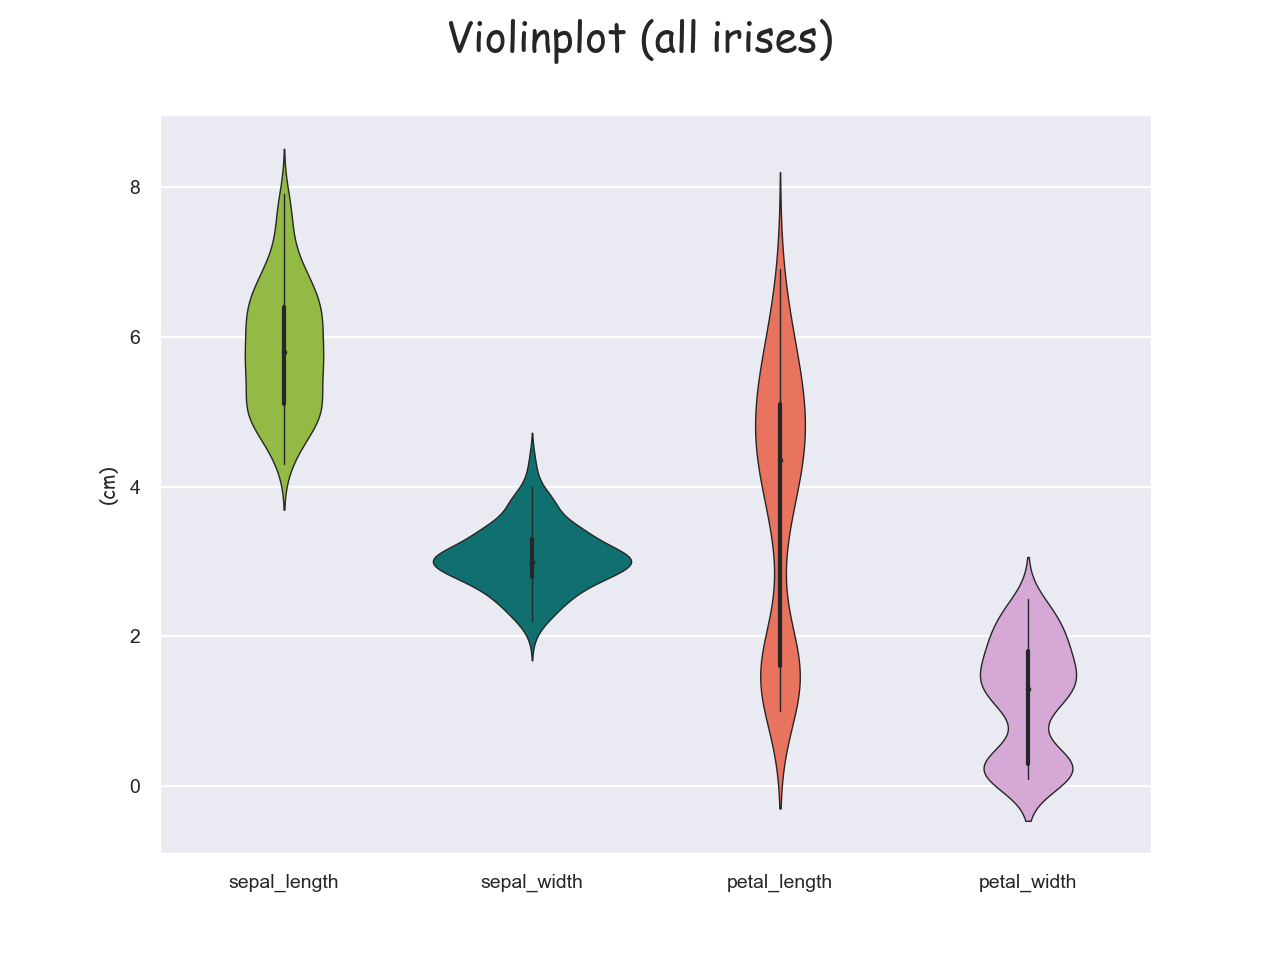
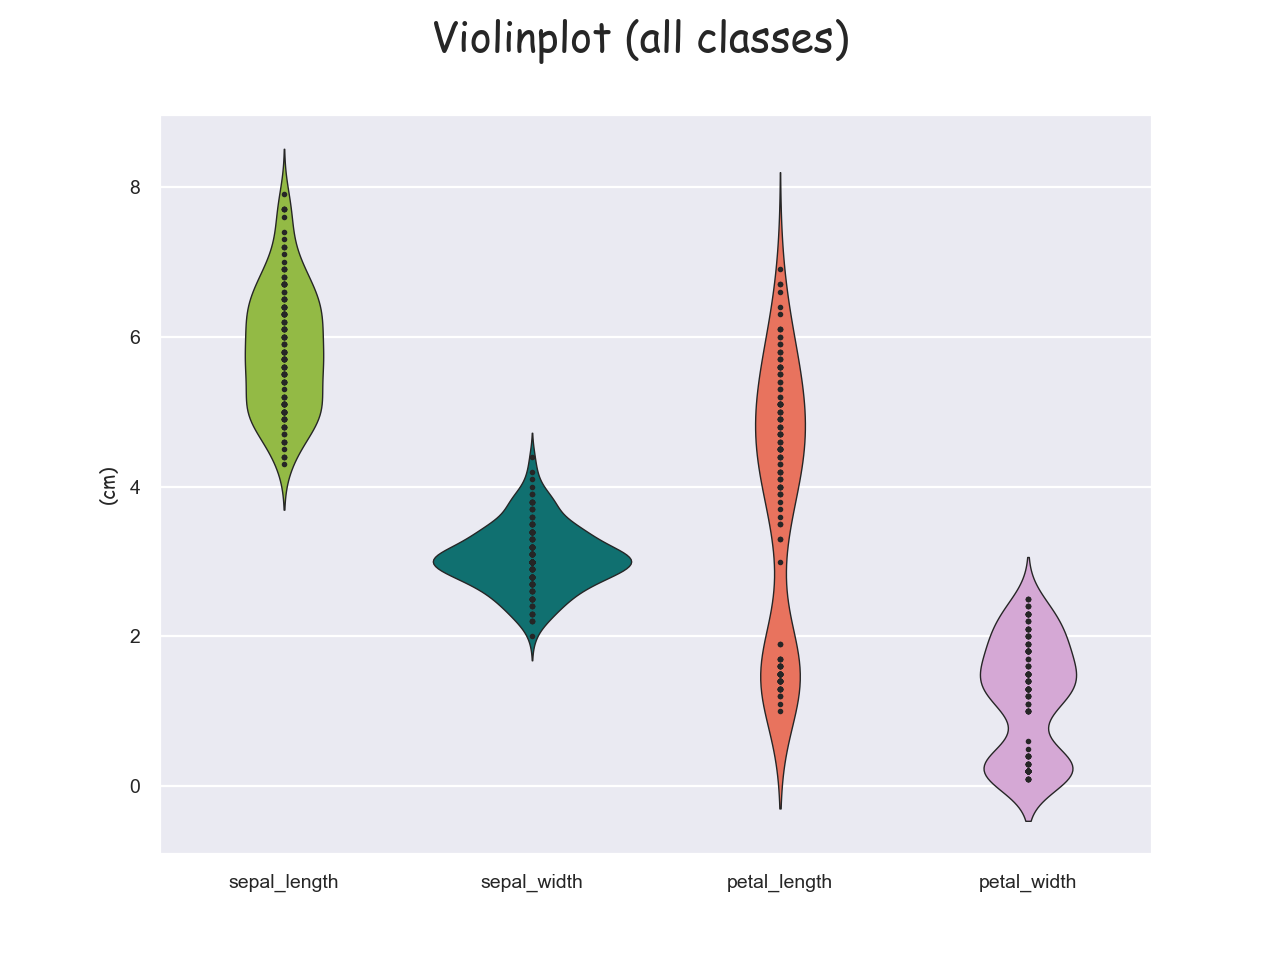
reorganisation

diff --git a/analysis.py b/analysis.py
@@ -76,7 +76,7 @@ b = sns.boxplot(data=iris, linewidth=0.5, fliersize=3, palette=color_theme2) # c
                                                                             # marker size (fliersize), and colour palette defined
 plt.tick_params(axis='both', which='major', labelsize=7) # formats ticks on each axis
 b.set_ylabel("(cm)", fontsize=7, fontname='fantasy') # sets y label with font and fontsize
-plt.suptitle('Boxplot (all irises)', fontsize=15, fontname='fantasy') # prints title and sets font and fontsize
+plt.suptitle('Boxplot (all classes)', fontsize=15, fontname='fantasy') # prints title and sets font and fontsize
 plt.show()
 
 # boxplot grid separating out each species
@@ -103,7 +103,7 @@ axes[0,1].tick_params(axis='both', which='major', labelsize=6)
 axes[1,0].tick_params(axis='both', which='major', labelsize=6)
 axes[1,1].tick_params(axis='both', which='major', labelsize=6)
 # prints title and formatting
-plt.suptitle('Boxplots (species separated)', fontsize=15, fontname='fantasy')
+plt.suptitle('Boxplots (classes separated)', fontsize=15, fontname='fantasy')
 plt.show()
 
 # creating violin plots
@@ -111,7 +111,7 @@ plt.show()
 b = sns.violinplot(data=iris, linewidth=0.5, fliersize=6, inner='point', palette=color_theme2) # creates plot with formatting
 plt.tick_params(axis='both', which='major', labelsize=7) # sets ticks
 b.set_ylabel("(cm)", fontsize=7, fontname='fantasy') # sets y label with formatting
-plt.suptitle('Violinplot (all irises)', fontsize=15, fontname='fantasy') # sets title with formatting
+plt.suptitle('Violinplot (all classes)', fontsize=15, fontname='fantasy') # sets title with formatting
 plt.show()
 
 # Stripplots
@@ -142,7 +142,7 @@ axes[0,1].tick_params(axis='both', which='major', labelsize=6)
 axes[1,0].tick_params(axis='both', which='major', labelsize=6)
 axes[1,1].tick_params(axis='both', which='major', labelsize=6)
 # sets title with formatting
-plt.suptitle('Strip plots (species separated and data points scattered)', fontsize=13, fontname='fantasy')
+plt.suptitle('Strip plots (classes separated and data points scattered)', fontsize=13, fontname='fantasy')
 plt.show()
 
 # histograms to show distribution of each variable

diff --git a/README.md b/README.md
@@ -102,16 +102,13 @@ Below is another visualisation of the same data this time using KDE (kernal dens
 Again we can see clearly that the setosa species is quite distinct from the other two in each of the variables, especially petal dimensions. In terms of sepal dimensions, versicolar and virginica are quite closely aligned but  less so when it comes to petal dimensions where we can see a bit of divergence. However it doesn't quite separate them.
 
 ### 2.6
-So it looks like we can quite easily separate and identify the setosa species, but the other two aren't as easily defined. We can have a good idea but nothing conclusive.
-
-### Part 3 further!
-The next logical step is seeing whether the data we can predict the species of flower just based on the dimensions of sepal and/or petal. This brings us into machine learning which is outside the breadth of this course but a little research introduced me to the following......!
+So it looks like we can quite easily discriminate between the setosa species, but the other two aren't as easily defined. We can have a good idea but nothing conclusive.
 
 ## References
 ### Background and source code
 - *THE USE OF MULTIPLE MEASUREMENTS IN TAXONOMIC PROBLEMS* by R. A. Fisher (the origin!) - https://onlinelibrary.wiley.com/doi/epdf/10.1111/j.1469-1809.1936.tb02137.x
 - *Iris Data Set* (source for code and some background) - https://archive.ics.uci.edu/ml/datasets/Iris
-- Another source for code - https://gist.github.com/curran/a08a1080b88344b0c8a7#file-iris-csv
+- *Another source for code* - https://gist.github.com/curran/a08a1080b88344b0c8a7#file-iris-csv
 - *Iris flower data set* (Wikipedia) - https://en.wikipedia.org/wiki/Iris_flower_data_set
 - *The Iris Dataset — A Little Bit of History and Biology* by Yong Cui - https://towardsdatascience.com/the-iris-dataset-a-little-bit-of-history-and-biology-fb4812f5a7b5
 - *Quantitative Data: Definition, Types, Analysis and Examples* - https://www.questionpro.com/blog/quantitative-data/
@@ -126,24 +123,26 @@ The next logical step is seeing whether the data we can predict the species of f
 - *Source for irises image* - https://morioh.com/p/eafb28ccf4e3
 
 ### Data visualisation
-- *Scatter plots in matplotlib.pyplot* - https://matplotlib.org/3.1.0/api/_as_gen/matplotlib.pyplot.scatter.html
-- "How to Set Axis Range (xlim, ylim) in Matplotlib" - https://stackabuse.com/how-to-set-axis-range-xlim-ylim-in-matplotlib/
-- *Multiple subplots in matplotlib.pyplot* - https://matplotlib.org/stable/gallery/subplots_axes_and_figures/subplot.html#sphx-glr-gallery-subplots-axes-and-figures-subplot-py
+
+### pandas/matplotlib.pyplot
+- *matplotlib.pyplot* - https://matplotlib.org/stable/api/_as_gen/matplotlib.pyplot.html
+- *Scatter plots* - https://matplotlib.org/3.1.0/api/_as_gen/matplotlib.pyplot.scatter.html
+- *How to Set Axis Range (xlim, ylim) in Matplotlib* - https://stackabuse.com/how-to-set-axis-range-xlim-ylim-in-matplotlib/
+- *Multiple subplots* - https://matplotlib.org/stable/gallery/subplots_axes_and_figures/subplot.html#sphx-glr-gallery-subplots-axes-and-figures-subplot-py
 - *Set a Single Main Title for All the Subplots in Matplotlib* - https://www.delftstack.com/howto/matplotlib/how-to-set-a-single-main-title-for-all-the-subplots-in-matplotlib/
-- *Legend in matplotlib.pyplot* - https://www.geeksforgeeks.org/matplotlib-pyplot-legend-in-python/
-- *Matplotlib legends in subplot* - https://stackoverflow.com/questions/27016904/matplotlib-legends-in-subplot
+- *Legend* - https://www.geeksforgeeks.org/matplotlib-pyplot-legend-in-python/
+- *Legends in subplot* - https://stackoverflow.com/questions/27016904/matplotlib-legends-in-subplot
 - *Creating multiple subplots using plt.subplots* - https://matplotlib.org/stable/gallery/subplots_axes_and_figures/subplots_demo.html
 - *Python Histogram Plotting: NumPy, Matplotlib, Pandas & Seaborn* - https://realpython.com/python-histograms/#visualizing-histograms-with-matplotlib-and-pandas
 - *Matplotlib make tick labels font size smaller* - https://stackoverflow.com/questions/6390393/matplotlib-make-tick-labels-font-size-smaller
-- *Set_linestyle in matplotlib.pyplot* - https://matplotlib.org/stable/api/_as_gen/matplotlib.lines.Line2D.html#matplotlib.lines.Line2D.set_linestyle
-- *How to use Pandas Scatter Matrix (Pair Plot) to Visualize Trends in Data8 - Erik Marsja - https://www.marsja.se/pandas-scatter-matrix-pair-plot/
+- *set_linestyle* - https://matplotlib.org/stable/api/_as_gen/matplotlib.lines.Line2D.html#matplotlib.lines.Line2D.set_linestyle
+- *How to use Pandas Scatter Matrix (Pair Plot) to Visualize Trends in Data* by Erik Marsja - https://www.marsja.se/pandas-scatter-matrix-pair-plot/
 - *Pair plots using Scatter matrix in Pandas* - https://www.geeksforgeeks.org/pair-plots-using-scatter-matrix-in-pandas/
 - *List of named colors in matplotlib* - https://matplotlib.org/stable/gallery/color/named_colors.html
-- *Understanding Boxplots* (and source for 'boxplots explained' image) - Michael Galarnyk - https://towardsdatascience.com/understanding-boxplots-5e2df7bcbd51
-- "matplotlib.pyplot" - https://matplotlib.org/stable/api/_as_gen/matplotlib.pyplot.html
+- *Understanding Boxplots* (and source for 'boxplots explained' image) by Michael Galarnyk - https://towardsdatascience.com/understanding-boxplots-5e2df7bcbd51
 
 #### Seaborn
-- *Seaborn Tutorial 2020* (YouTube) - Derek Banas - https://www.youtube.com/watch?v=6GUZXDef2U0
+- *Seaborn Tutorial 2020* (YouTube) by Derek Banas - https://www.youtube.com/watch?v=6GUZXDef2U0
 - *seaborn.pairplot* - https://seaborn.pydata.org/generated/seaborn.pairplot.html
 - *seaborn.histplot* - https://seaborn.pydata.org/generated/seaborn.histplot.html
 - *seaborn.scatterplot* - https://seaborn.pydata.org/generated/seaborn.scatterplot.html
